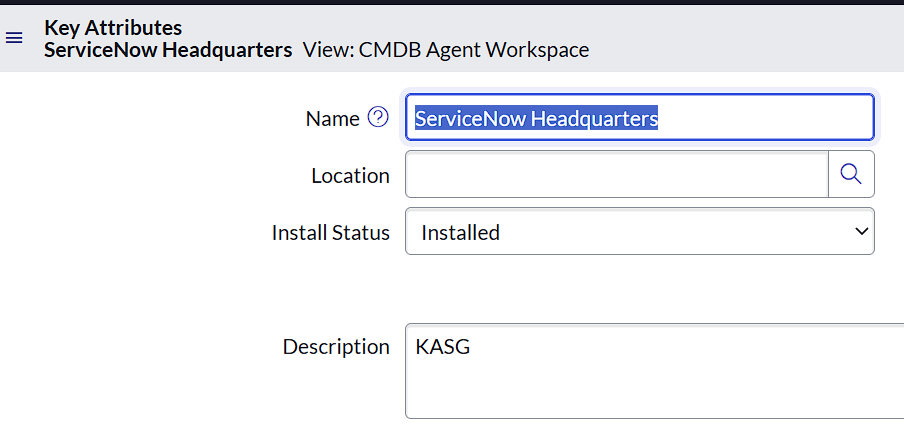
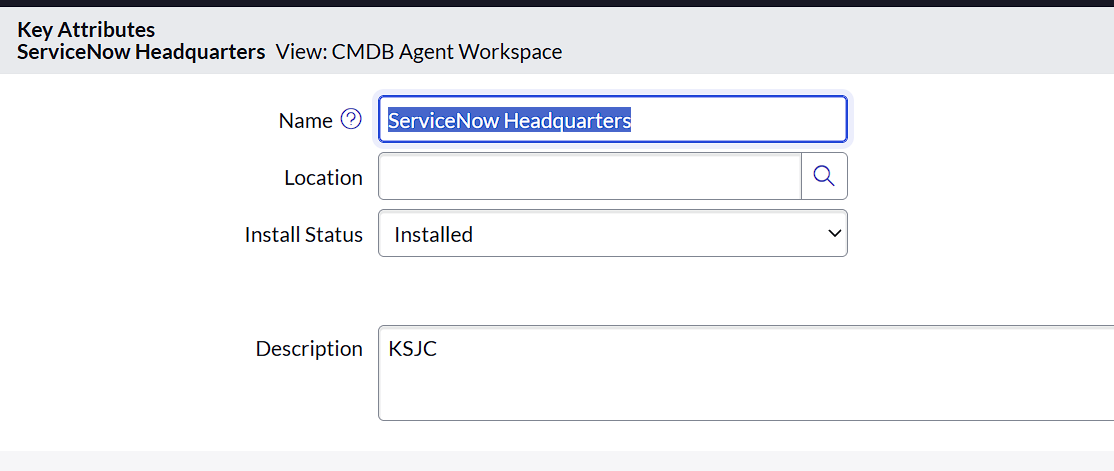
Replace data center screenshot with corrected KSJC example

diff --git a/docs/servicenow-configuration.md b/docs/servicenow-configuration.md
@@ -61,12 +61,11 @@ Airport**. The [NWS Santa Clara page](https://forecast.weather.gov/MapClick.php?
 uses this station for current conditions. Select a station appropriate to the
 physical location when configuring other data centers.
 
-![Data Center CI showing the Description field; use KSJC instead of the original screenshot value](images/data-center-station-configuration.png)
+![Data Center CI with KSJC as the only line in Description for the Santa Clara demo](images/data-center-station-configuration.png)
 
-**Screenshot correction:** the original image contains `KASG`. For this Santa
-Clara demo, enter **`KSJC`** instead. The image is retained to show the field's
-location, not the corrected value. The blank Location in the screenshot is not
-a recommendation to clear location information.
+*The updated screenshot shows **`KSJC`** as the only line in Description for the
+Santa Clara demo. The blank Location is not a recommendation to clear location
+information; maintain it according to your CMDB requirements.*
 
 ### Find the nearest station
 

diff --git a/docs/images/README.md b/docs/images/README.md
@@ -22,7 +22,6 @@ to select an agent from the reader's own environment.
 The critical parameter is shown as non-mandatory in the parameter screenshots.
 The guide explicitly corrects this to mandatory because the script requires it.
 The screenshot default thresholds are examples and are not universal settings.
-The data center screenshot still shows the originally supplied `KASG` value.
-The owner corrected the demo location to Santa Clara, California. The guide
-explicitly instructs readers to enter `KSJC` (San Jose International Airport)
-for that demo; the image is retained only to show the Description field.
+The updated data center screenshot shows `KSJC` (San Jose International Airport)
+as the only line in Description for the Santa Clara, California demo. It replaces
+the earlier station-field screenshot and matches the guide's instructions.

diff --git a/README.md b/README.md
@@ -33,7 +33,7 @@ event instances is configurable; the example uses one above-temperature check
 and one below-temperature check alongside the metric.
 
 The Santa Clara, California demo uses **`KSJC` (San Jose International Airport)**.
-The guide labels the original screenshot's station value as needing correction.
+The guide's data center screenshot shows `KSJC` entered in Description.
 
 ## Event check
 
